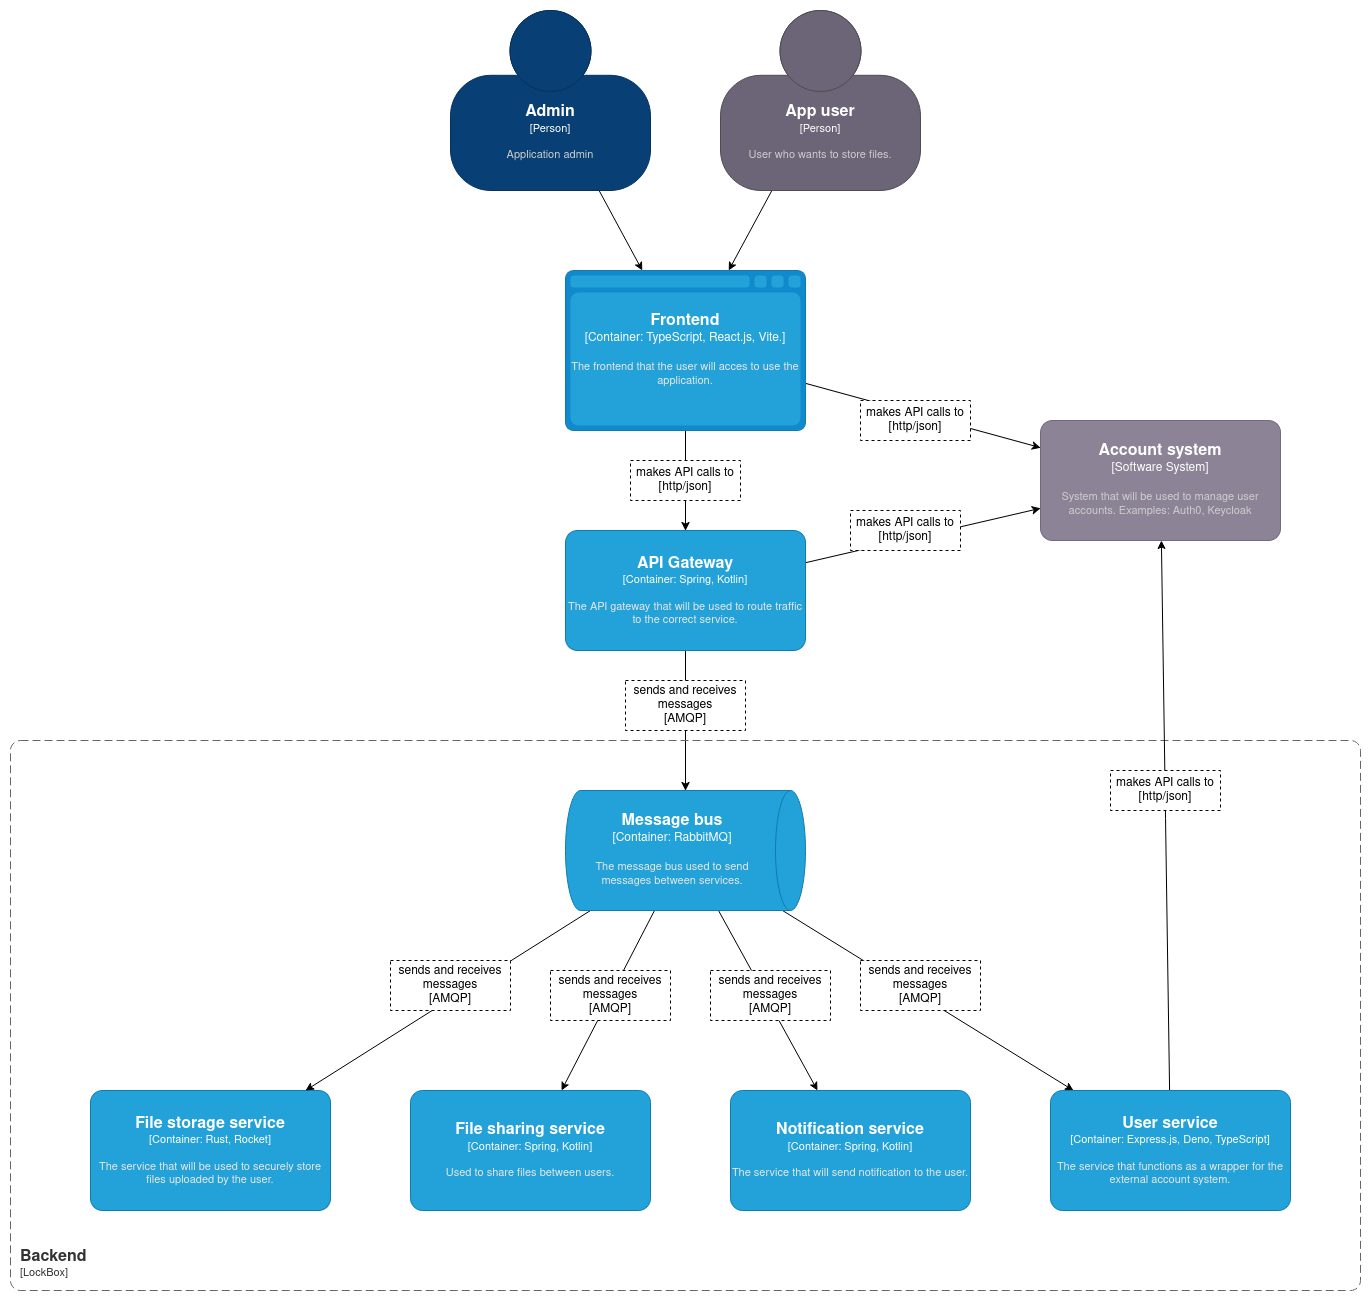
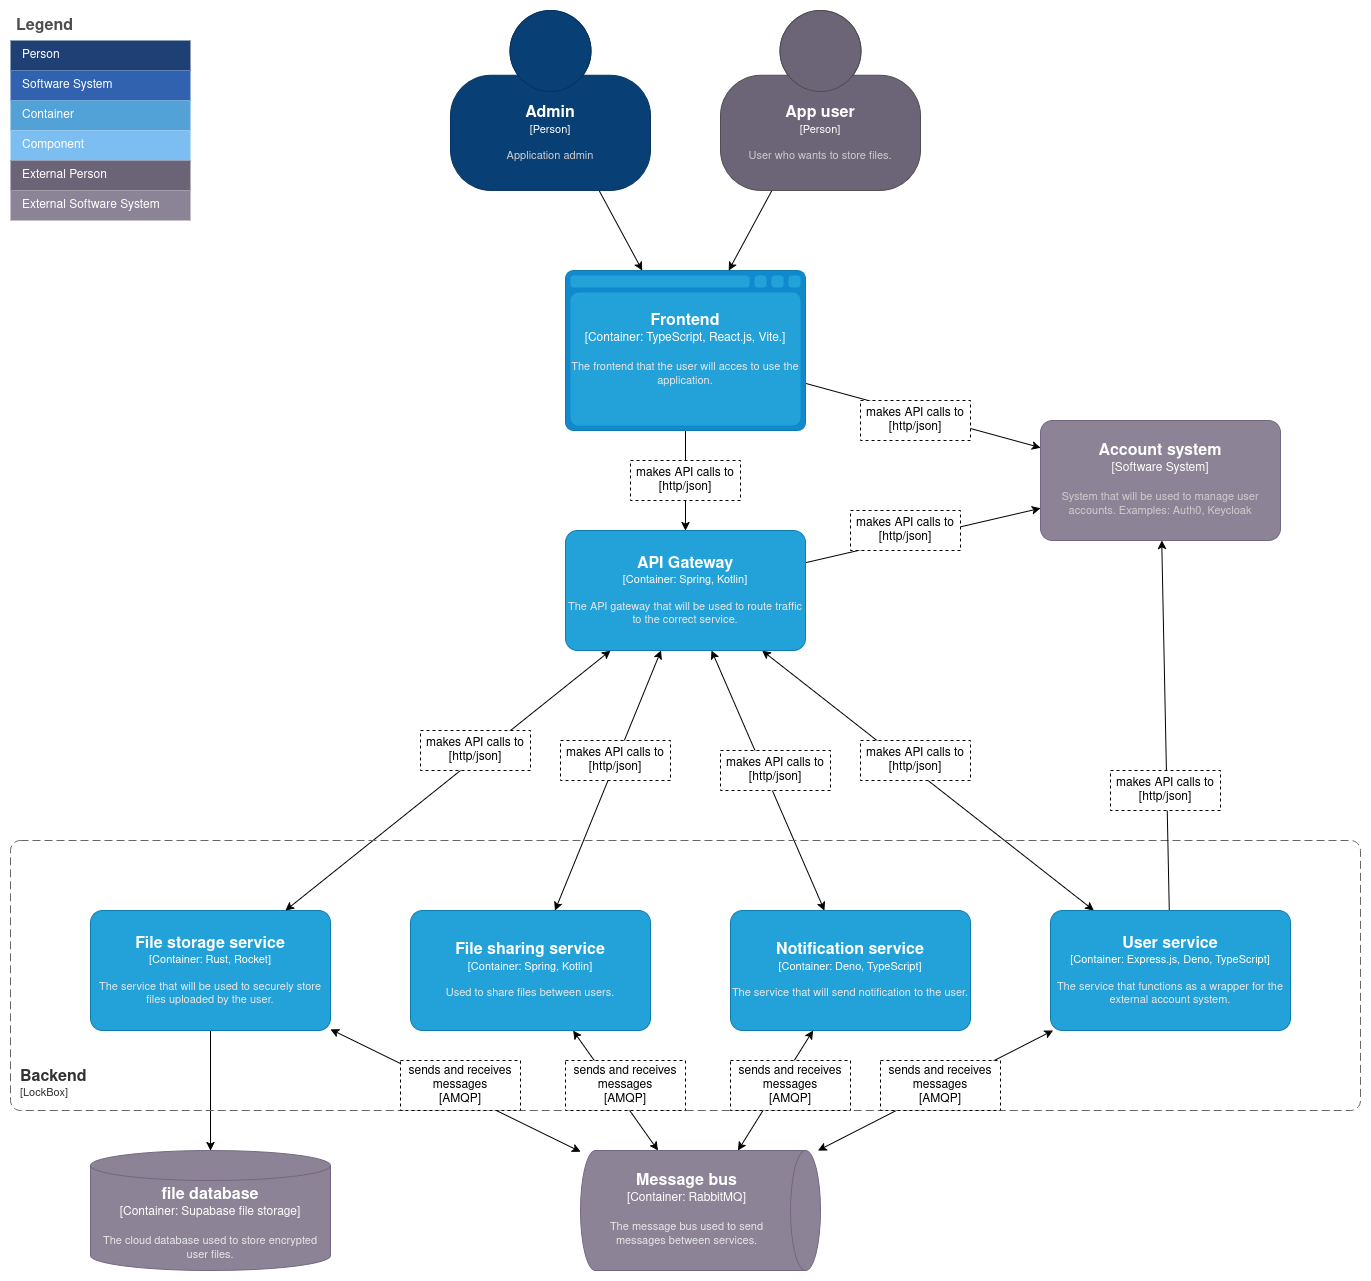
Verwerk feedback
Er was vooral nog niet duidelijk uitgelegd waarom ik bepaalde keuzes heb gemaakt.

diff --git a/docs/architecture-and-platforms/technology-selection.md b/docs/architecture-and-platforms/technology-selection.md
@@ -10,7 +10,7 @@ Om voor het LockBox project een goede keuze te maken zijn een aantal criteria op
 ## Criteria
 De belangrijkste criteria voor het LockBox project zijn hier terug te zien met een korte beschrijving erbij. 
 
-- **Scalability** - De LockBox applicatie zal een groot aantal gebruikers aan moeten kunnen. Hiervoor is het daarom belangrijk dat de gebruikte technologieën in staat zijn mee te schalen met het aantal gebruikers.
+- **Scalability** - De LockBox applicatie zal een groot aantal gebruikers aan moeten kunnen. Hiervoor is het daarom belangrijk dat de gebruikte technologieën in staat zijn mee te schalen met het aantal gebruikers. 
 - **Active community** - Een active community helpt enorm bij het ontwikkelen van software, er is dan namelijk meer hulp online te vinden. 
 - **Documentatie** - Het product moet goed gedocumenteerd zijn. Dit maakt het makkelijker om geavanceerde functionaliteiten in te bouwen, en de technologie efficient te gebruiken. 
 - **Actief onderhouden** - De technologie moet actief onderhouden zijn. Software die niet langer actief onderhouden wordt zal vroeg of laat security vulnerabilities bevatten. 
@@ -18,7 +18,8 @@ De belangrijkste criteria voor het LockBox project zijn hier terug te zien met e
 - **Security** - Het product moet een focus hebben op security. Security is een belangrijk aspect voor enterprise software in het algemeen. Voor LockBox is dit niet minder waar aangezien gebruikers geregeld gevoelige bestanden zullen uploaden. 
 - **Ontwikkel snelheid** - Er is maar 1 semester de tijd om aan het LockBox project te werken. Deze limitering maakt dat het product een snel ontwikkel proces moet ondersteunen, en niet limiteren. 
 - **Ervaring bij developers** - Of er al wel of geen ervaring is bij de ontwikkelaar (Rik de Goede) van het LockBox project. Als er al ervaring is met het product scheelt dit enorm in ontwikkel snelheid.
-
+- **Beschikbaarheid AES-GCM** - De LockBox applicatie gaat bestanden versleutelen met `AES-GCM` (256 bits keys). Het is daarom belangrijk dat er een goed onderhouden en veilige library aanwezig is voor dit algoritme. Dit geldt voor de frontend van het project, zowel als de backend. 
+- **File size support** - De LockBox applicatie zal veel bestanden moeten bewaren die gebruikers opslaan. Deze bestanden mogen een grote hebben tot `1 GB` volgens non-functional requirement 17. Dit wil wel zeggen dat de database dit aan moet kunnen.
 
 ## Keuze Matrices
 
@@ -34,6 +35,7 @@ De belangrijkste criteria voor het LockBox project zijn hier terug te zien met e
 | Security           | 2      | x    | x      | x      | x          | x     | x     |
 | Ontwikkel snelheid | 2      |      |        | x      | x          | x     | x     |
 | Ervaring           | 1      | x    | x      | x      | x          |       | x     |
+
 1. **Express.js / Flask:** 14 pts
 2. **Rocket / Rails:** 13 pts
 3. **.NET / Spring:** 12 pts
@@ -67,9 +69,12 @@ De belangrijkste criteria voor het LockBox project zijn hier terug te zien met e
 | Security           | 2      | x       | x          | x     | x     |
 | Ontwikkel snelheid | 2      | x       |            |       | x     |
 | Ervaring           | 1      | x       |            | x     |       |
-1. **MongoDB:** 13 pts
-2. **MySQL / Redis:** 12 pts
-3. **PostgreSQL:** 11 pts
+| File size support  | 3      | x       |            | x     |       |
+
+1. **MongoDB:** 16 pts
+2. **MySQL:** 15 pts
+3. **Redis:** 12 pts
+4. **PostgreSQL:** 11 pts
 
 *Note: MySQL heeft enkel een goede scalability bij gebruik van de enterprise edition vanwege de "thread pooling" functionaliteit.*
 
@@ -90,5 +95,6 @@ Wel moet opgemerkt worden dat voor een eerste proof of concept mogelijk React.js
 **Databases** <br/>
 *MongoDB* is de winnaar bij de database vergelijking. Het enige nadeel aan MongoDB is het feit dat de software niet open source is. 
 
-Op de tweede plaats komen *MySQL* en *Redis*. MySQL heeft als enige nadeel de ontwikkel snelheid. Dit komt door het feit SQL databases vaak meer aandacht nodig hebben dan NoSQL databases. <br/>
-Redis had kunnen winnen als zij hun software open source hadden gelaten. Redis heeft toch nog een ander nadeel, het is namelijk standaard enkel een in-memory database. Om Redis persistent te maken is ook extra setup nodig. 
+Op de tweede plaats staat *MySQL*. MySQL heeft als enige nadeel de ontwikkel snelheid. Dit komt door het feit SQL databases vaak meer aandacht nodig hebben dan NoSQL databases. 
+
+*Redis* heeft best goed gescored in de vergelijking. Redis heeft echter wel een groot nadeel, het is namelijk standaard enkel een in-memory database. Om Redis persistent te maken is ook extra setup nodig. Buiten de extra setup tijd, maakt dit Redis ook nog een een slechte keuze voor het opslaan van bestanden. Dit zal namelijk (tijdelijk) enorm veel memory kosten. 

diff --git a/docs/Application-Design/userstories-requirements.md b/docs/Application-Design/userstories-requirements.md
@@ -32,19 +32,29 @@ User stories zijn gebruikt om de functionaliteiten die de **LockBox** applicatie
 
 De uitgewerkte non-functional requirements geven aan welke eisen zijn opgesteld voor de **LockBox** applicatie. Deze eisen betreffen de algemene werking van de applicatie, maar ook de performance en security worden meegenomen.
 
-1. Opgeslagen bestanden worden versleuteld met AES-GCM met 256 bits keys.
-2. Bestanden worden enkel versleuteld over het netwerk verstuurd.
-3. De app maakt gebruik van JSON web tokens (JWT) voor authenticatie.
-4. De applicatie maakt gebruik van HTTPS (TLS).
-5. Gebruikers gegevens en geüploade bestanden worden verwijderd bij account verwijdering. 
-6. De applicatie heeft een up-time van **98%**.
-7. Het opslaan van een bestand duurt maximaal 1 minuut. 
-8. Het verwijderen van een bestand duurt maximaal 1 minuut.
-9. Het verwijderen van een account duurt maximaal 5 minuten.
-10. Het systeem moet minimaal 500.000 gebruikers tegelijkertijd aankunnen.
-11. Het systeem moet horizontaal schalen om meer/minder resources te gebruiken wanneer nodig. 
-12. Het systeem bevat een **RBAC** systeem zodat iedere gebruiker de juiste rechten bezit. 
-13. Het systeem moet voldoen aan de eisen van **GDPR**.
-14. Data moet worden gebackupd iedere 5 minuten.
-15. Applicatie en systeem logs worden bewaard voor minstens 30 dagen.
-16. Het systeem bevat real-time monitoring van API gebruik, beschikbare opslag en performance.
+### Must have
+1. Opgeslagen bestanden worden versleuteld met `AES-GCM` met 256 bits keys.
+2. Het systeem moet horizontaal schalen om meer/minder resources te gebruiken wanneer nodig. 
+
+### Should have
+1. Bestanden worden enkel versleuteld over het netwerk verstuurd.
+2. De app maakt gebruik van JSON web tokens (JWT) voor authenticatie.
+3. De applicatie maakt gebruik van `HTTPS`.
+4. Gebruikers gegevens en geüploade bestanden worden verwijderd bij account verwijdering. 
+5. De applicatie heeft een up-time van `99.3%`. <br/>
+   *Het is belangrijk dat gebruikers zo goed als altijd toegang hebben tot hun opgeslagen bestanden. Het zou niet juist zijn als gebruikers meer dan 10 minuten per dag niet bij hun bestanden kunnen. Dit resulteert in een up-time percentage van `99.3%`.*
+6. Het opslaan van een bestand duurt maximaal 1 minuut. 
+7. Het verwijderen van een bestand duurt maximaal 1 minuut.
+8. Het verwijderen van een account duurt maximaal 5 minuten.
+9. Het systeem moet minimaal `900,000` gebruikers tegelijkertijd aankunnen. <br/>
+   *De verwachting is dat LockBox mogelijk meerdere miljoenen gebruikers zal hebben. Deze zullen niet allemaal tegelijkertijd de applicatie gebruiken, dit zal uiterlijk liggen rond de 2 uur per dag in extreme gevallen. Stel de applicatie heeft 10.000.000 gebruikers die de applicatie allemaal 2 uur per dag gebruiken, dan resulteert dit in `10,000,000 * (2 / 24) = 833,333` gelijktijdige gebruikers. Dit is naar boven afgerond tot `900,000` om er zeker van te zijn dat het systeem het aantal gebruikers aan kan.*
+10. Het systeem bevat een `RBAC` systeem zodat iedere gebruiker de juiste rechten bezit. 
+11. Het systeem moet voldoen aan de eisen van **GDPR**.
+12. Data moet iedere 5 minuten worden gebackuped.
+13. Applicatie en systeem logs worden bewaard voor minstens 30 dagen.
+14. Het systeem bevat real-time monitoring van API gebruik, beschikbare opslag en performance.
+15. Gebruikers kunnen bestanden opslaan met een maximale grote van `1 GB`.
+
+
+Zoals te zien zijn er twee non-functional requirements die vallen onder de categorie *"must have"*, dit zijn de belangrijkste requirements voor het LockBox project. Gedurende dit semester zal daarom de focus vooral op deze non-functional requirements liggen. De eerste requirement is belangrijk om te zorgen dat de gebruiker zijn bestanden daadwerkelijk veilig online kan opslaan. De andere requirement is extra belangrijk vanwege het grote aantal gebruikers dat de applicatie zal hebben. Altijd de applicatie op het volle vermogen laten draaien zou te duur zijn, dus moet de applicatie horizontaal kunnen schalen.
+

diff --git a/docs/Application-Design/Design-Document.md b/docs/Application-Design/Design-Document.md
@@ -15,12 +15,22 @@ De onderstaande containerdiagram toont het ontwerp van de LockBox applicatie. He
 
 ![C2-diagram](./C2-LockBox.png "C2 lockBox")
 
-Er zijn een aantal keuzes gemaakt met betrekking tot de non-functional requirements. Als eerst is de keuze gemaakt om gebruik te maken van een *microservice architecture*. De applicatie heeft namelijk de non-functional requirement: *"De applicatie heeft een up-time van **98%**"*. Een microservice architectuur kan hier bij helpen aangezien services makkelijk automatisch vervangen kunnen worden wanneer ze tegen een runtime error aanlopen.
+**Micro Services** <br/>
+Er zijn een aantal keuzes gemaakt met betrekking tot de non-functional requirements. Als eerst is de keuze gemaakt om gebruik te maken van een *microservice architecture*. De applicatie heeft namelijk de non-functional requirement: *"Het systeem moet horizontaal schalen om meer/minder resources te gebruiken wanneer nodig"*. Een microservice architectuur maakt het mogelijk om horizontaal te schalen. Er kunnen namelijk (automatisch) meer services worden gestart om een grotere load te verdragen. Verder heeft LockBox de non-functional requirement: *"De applicatie heeft een up-time van 99.3%"*. Een microservice architectuur kan hier bij helpen aangezien services makkelijk automatisch vervangen kunnen worden wanneer ze tegen een runtime error aanlopen.
 
+**Message Broker** <br/>
+De services zullen voor onderlinge communicatie gebruik maken van een *message broker*. De reden hiervoor is zodat de services niet op elkaars antwoord hoeven te wachten. Zo kunnen de services hun taken sneller voltooien, waardoor ze meer tijd over houden voor andere taken. Dit gaat helpen om te voldoen aan de non-functional requirements betreffende de bestand upload/verwijder tijd. 
+
+**API Gateway** <br/>
+Zoals te zien zal er ook een API gateway worden gebruikt in de architectuur van LockBox. De reden hiervoor is zodat de frontend maar één API hoeft aan te spreken, die van de gateway. Dit maakt het voordelig voor de onderhoudbaarheid van de software. Ook kan de API gateway worden gebruikt om extra security controles uit te voeren op binnenkomende requests. 
+
+**Accounts** <br/>
 De keuze is gemaakt om een external account systeem te gebruiken zodat JWT tokens gebruikt kunnen worden voor authenticatie. Dit had uiteraard ook in-house ontwikkeld kunnen worden, maar dit brengt veel security risico's met zich mee.
 
-Ook is de keuze gemaakt om **Rust** te gebruiken voor de "File storage service". Dit omdat deze functionaliteit (het opslaan van bestanden) de kern is van de gehele applicatie. Dit wil zeggen dat deze service waarschijnlijk een grote load zal ontvangen, en Rust zou daarom kunnen helpen bij de performance van deze service. 
+**Rust** <br/>
+Ook is de keuze gemaakt om de *Rust* programmeer taal te gebruiken voor de "File storage service". Dit omdat deze functionaliteit (het opslaan van bestanden) de kern is van de gehele applicatie. Dit wil zeggen dat deze service waarschijnlijk een grote load zal ontvangen, en Rust zou daarom kunnen helpen bij de performance van deze service. 
 
+**User Service** <br/>
 Verder is te zien dat er een "User service" ontwikkeld zal worden, deze keuze heeft met meerdere non-functional requirements te maken. De keuze is echter voornamelijk gemaakt om het mogelijk te maken om accounts te verwijderen, zowel als alle data en opgeslagen bestanden die hierbij horen. Het account systeem zal worden ge-out-sourced naar een cloud provider, maar de gekoppelde bestanden zullen worden opgeslagen in een eigen database. Verder is de keuze gemaakt om TypeScript te gebruiken vanwege de grote hoeveelheid support voor de taal vanuit de meeste cloud services. 
 
 ---

diff --git a/docs/architecture-and-platforms/cloud-platforms.md b/docs/architecture-and-platforms/cloud-platforms.md
@@ -1,0 +1,6 @@
+---
+sidebar_position: 3
+---
+# Cloud Platforms
+
+/
